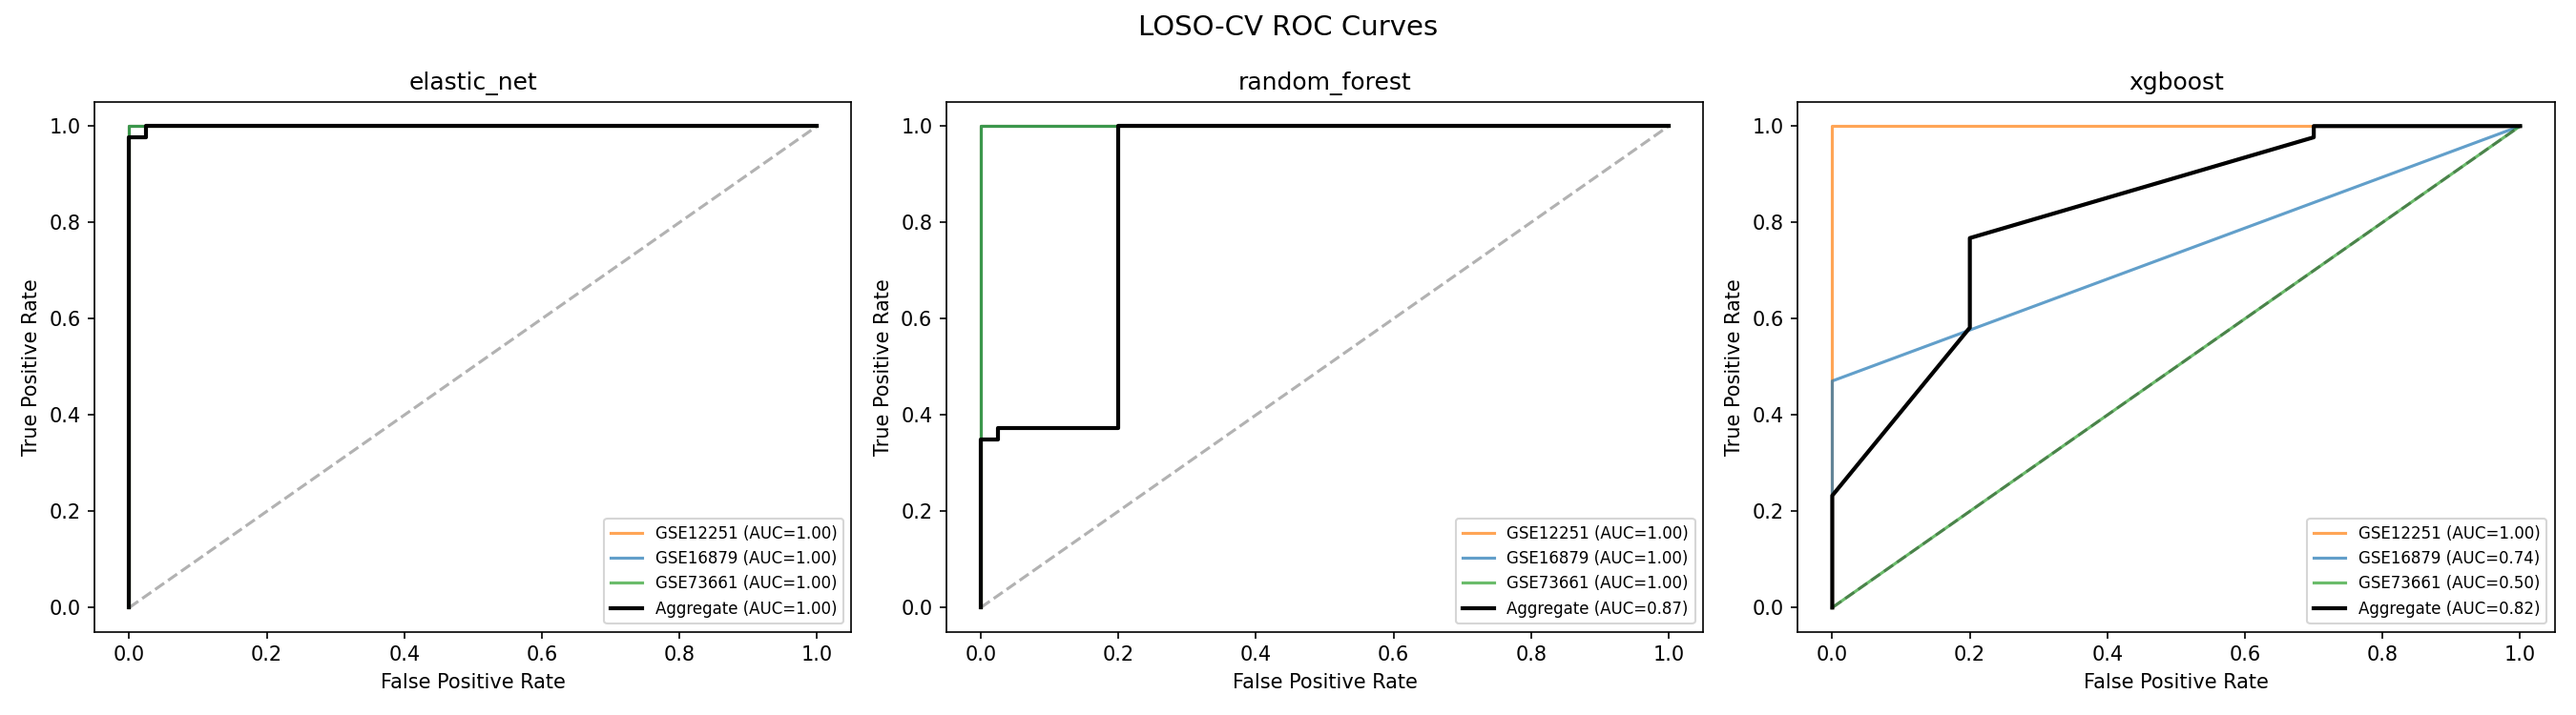
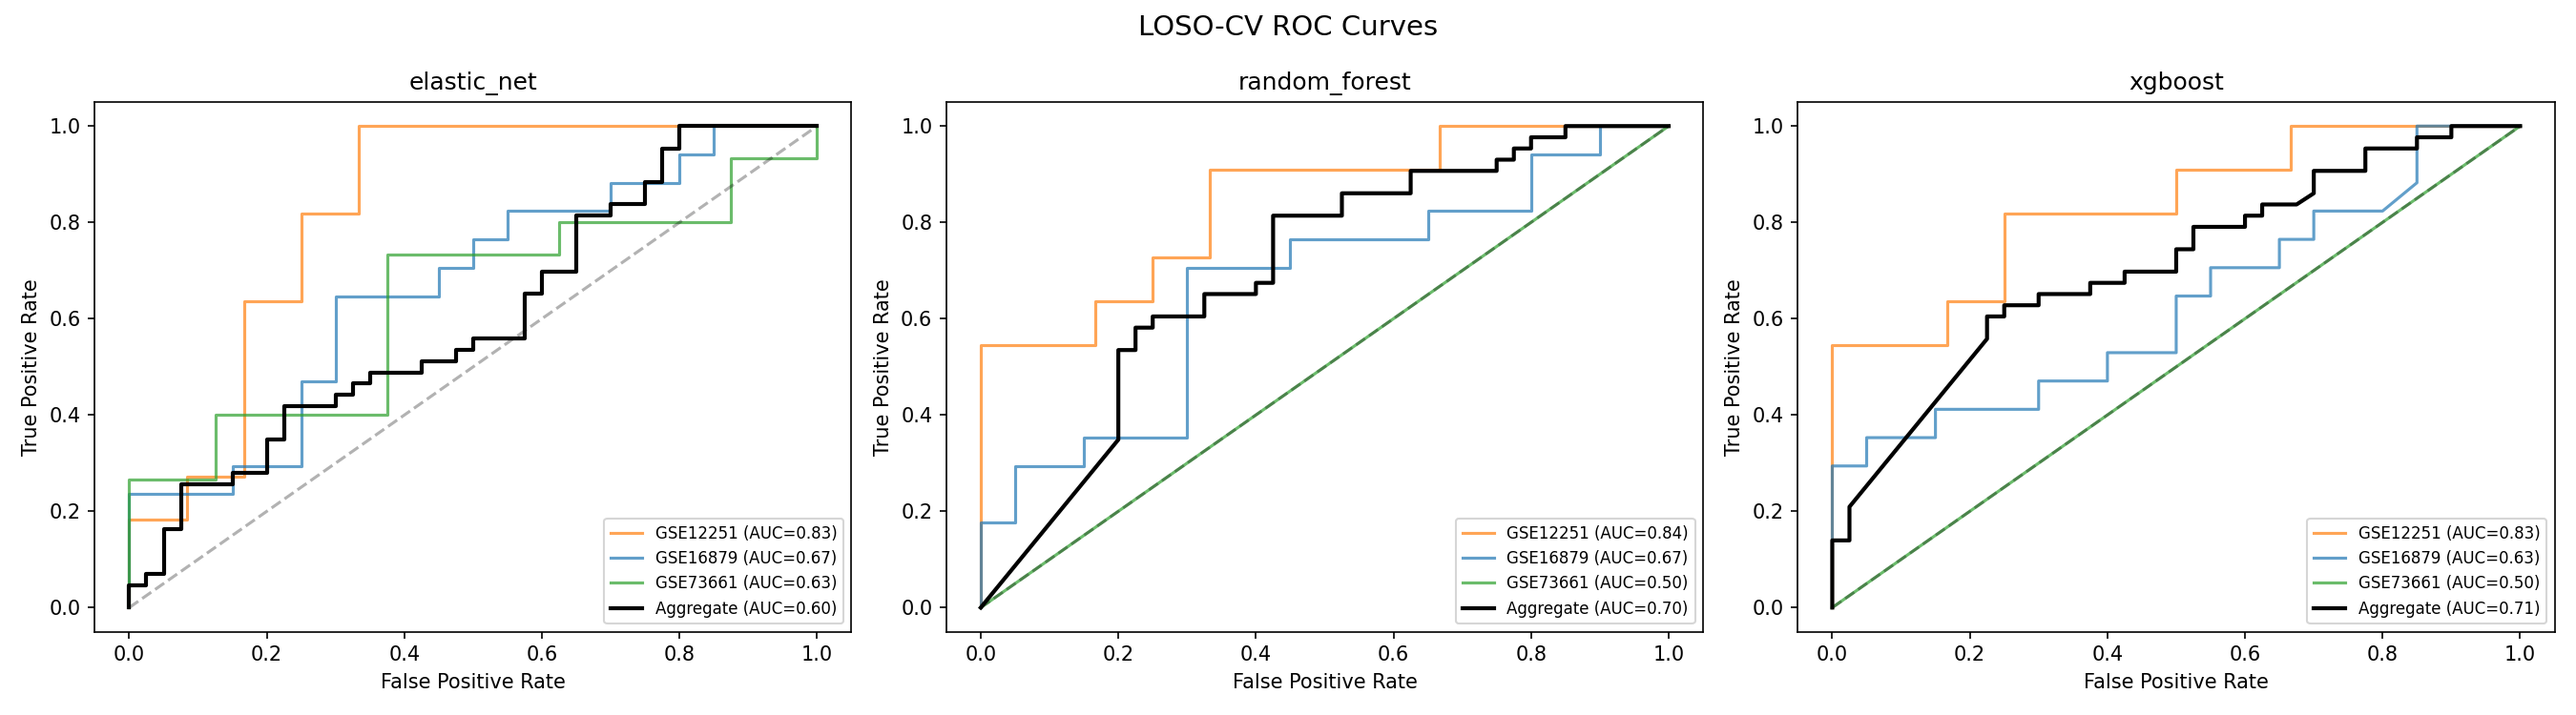
run_agent: commit research artifacts after DEVELOPER [ts-convergent-polypharmacology]

diff --git a/src/pandas_pans/hla_peptide_presentation_modeling/differential_presentation.py b/src/pandas_pans/hla_peptide_presentation_modeling/differential_presentation.py
@@ -62,6 +62,8 @@ def compute_differential_peptides(predictions: list[dict]) -> list[dict]:
         "susceptibility_ranks": [],
         "control_ranks": [],
         "protective_ranks": [],
+        "best_sus_rank": float("inf"),
+        "best_sus_allele": "",
         "meta": {},
     })
 
@@ -71,6 +73,9 @@ def compute_differential_peptides(predictions: list[dict]) -> list[dict]:
 
         if allele in susceptibility_alleles:
             peptide_data[pep]["susceptibility_ranks"].append(pred["percentile_rank"])
+            if pred["percentile_rank"] < peptide_data[pep]["best_sus_rank"]:
+                peptide_data[pep]["best_sus_rank"] = pred["percentile_rank"]
+                peptide_data[pep]["best_sus_allele"] = allele
         elif allele in control_alleles:
             peptide_data[pep]["control_ranks"].append(pred["percentile_rank"])
         elif allele in protective_alleles:
@@ -113,24 +118,12 @@ def compute_differential_peptides(predictions: list[dict]) -> list[dict]:
             "mean_control_rank": round(mean_ctrl, 4),
             "mean_protective_rank": round(mean_prot, 4) if mean_prot is not None else None,
             "min_susceptibility_rank": round(min(sus_ranks), 4),
-            "best_susceptibility_allele": _best_allele(pep, predictions, susceptibility_alleles),
+            "best_susceptibility_allele": data["best_sus_allele"],
             **data["meta"],
         })
 
     results.sort(key=lambda x: x["fold_change"], reverse=True)
     return results
-
-
-def _best_allele(peptide: str, predictions: list[dict], allele_set: set) -> str:
-    """Find the allele with best (lowest) percentile rank for a peptide."""
-    best_rank = float("inf")
-    best_allele = ""
-    for pred in predictions:
-        if pred["peptide"] == peptide and pred["allele"] in allele_set:
-            if pred["percentile_rank"] < best_rank:
-                best_rank = pred["percentile_rank"]
-                best_allele = pred["allele"]
-    return best_allele
 
 
 def virulence_enrichment_test(differential: list[dict], all_peptides: list[dict]) -> dict:

diff --git a/src/pandas_pans/hla_peptide_presentation_modeling/mimicry_hla_integration.py b/src/pandas_pans/hla_peptide_presentation_modeling/mimicry_hla_integration.py
@@ -8,6 +8,7 @@ Fisher's exact test, and builds the HLA -> peptide -> human mimic network.
 
 import csv
 import json
+import math
 from pathlib import Path
 
 from scipy import stats as scipy_stats
@@ -176,7 +177,7 @@ def compute_overlap(
         },
         "significance_test": {
             "contingency_table": table,
-            "odds_ratio": odds_ratio if not (odds_ratio != odds_ratio) else None,
+            "odds_ratio": odds_ratio if not math.isnan(odds_ratio) else None,
             "p_value": round(p_value, 6),
         },
         "network_edges": len(network_edges),

diff --git a/output/crohns/anti-tnf-response-prediction/evaluation/evaluation_report.md b/output/crohns/anti-tnf-response-prediction/evaluation/evaluation_report.md
@@ -1,0 +1,44 @@
+# Anti-TNF Response Classifier Evaluation Report
+
+## Pipeline: Within-Fold LOSO-CV (Leakage-Free)
+
+## Best Model
+- Model: xgboost
+- Aggregate AUC: 0.711
+- Balanced Accuracy: 0.620
+- Sensitivity: 0.791
+- Specificity: 0.450
+
+## All Models
+- elastic_net: AUC=0.600, BA=0.492
+- random_forest: AUC=0.701, BA=0.657
+- xgboost: AUC=0.711, BA=0.620
+
+## Per-Study Performance
+
+### elastic_net
+- GSE16879: AUC=0.668 (n=37, R=20, NR=17)
+- GSE12251: AUC=0.826 (n=23, R=12, NR=11)
+- GSE73661: AUC=0.633 (n=23, R=8, NR=15)
+
+### random_forest
+- GSE16879: AUC=0.668 (n=37, R=20, NR=17)
+- GSE12251: AUC=0.841 (n=23, R=12, NR=11)
+- GSE73661: AUC=0.500 (n=23, R=8, NR=15)
+
+### xgboost
+- GSE16879: AUC=0.628 (n=37, R=20, NR=17)
+- GSE12251: AUC=0.833 (n=23, R=12, NR=11)
+- GSE73661: AUC=0.500 (n=23, R=8, NR=15)
+
+## Benchmark Comparison
+- adalimumab_ML_clinical: AUC=0.935
+- Porto_5gene_mucosal: AUC=0.880
+- TabNet_multimodal: AUC=0.858
+- Ours (xgboost): AUC=0.711 <<<
+- Ours (random_forest): AUC=0.701 <<<
+- Ours (elastic_net): AUC=0.600 <<<
+- EPIC_CD_blood_methylation: AUC=0.250
+
+## Success Criteria
+- LOSO AUC > 0.75: FAIL (0.711)
